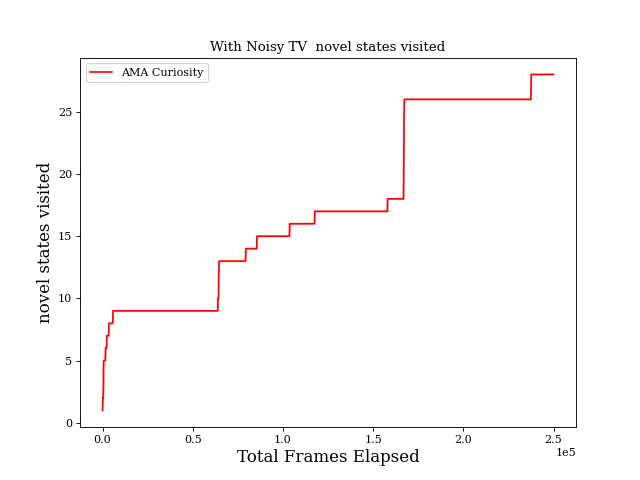
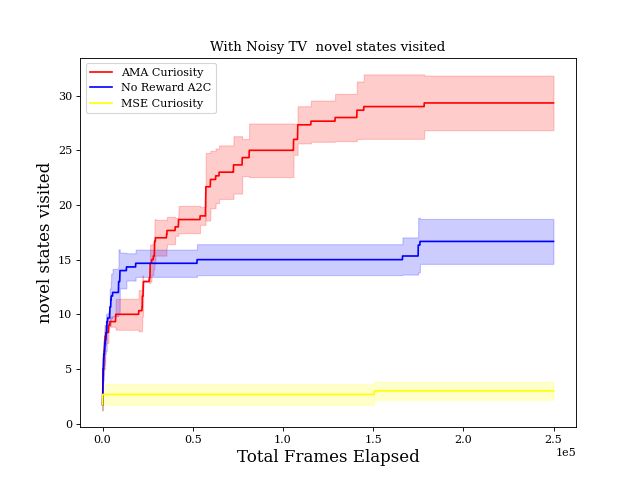
Results for multiroom (4 rooms)

diff --git a/rl-starter/src/scripts/plot.py b/rl-starter/src/scripts/plot.py
@@ -80,6 +80,15 @@ def plot(title, path_strings, quantity):
     plt.savefig(plot_title + "_" + frames + ".png")
 
 
+def ignore_empty_lists(a_list_of_lists):
+    new_list = []
+    for an_item in a_list_of_lists:
+        if len(an_item) == 0:
+            continue
+        new_list.append(an_item)
+    return new_list
+
+
 def main(args):
     quantities_to_plot = ["intrinsic_rewards", "novel_states_visited", "uncertainties"]
     all_strings = glob.glob("storage/*80*")
@@ -140,20 +149,24 @@ def main(args):
 
         path_strings_noisy_tv = [
             Curious_True_Noisy_True_Uncertain_True,
-        #    Curious_False_Noisy_True_Uncertain_False,
-        #    Curious_True_Noisy_True_Uncertain_False,
-        #    random_Noisy_True,
+            Curious_False_Noisy_True_Uncertain_False,
+            Curious_True_Noisy_True_Uncertain_False,
+            random_Noisy_True,
         ]
         path_strings_no_noisy = [
             Curious_False_Noisy_False_Uncertain_False,
             Curious_True_Noisy_False_Uncertain_True,
             Curious_True_Noisy_False_Uncertain_False,
-        #    random_Noisy_False,
+            random_Noisy_False,
         ]
+    
+        path_strings_noisy_tv = ignore_empty_lists(path_strings_noisy_tv)
+        path_strings_no_noisy = ignore_empty_lists(path_strings_no_noisy)
 
-
-        plot("With Noisy TV ", path_strings_noisy_tv, quantity)
-        plot("Without Noisy TV ", path_strings_no_noisy, quantity)
+        if len(path_strings_noisy_tv) > 0:
+            plot("With Noisy TV ", path_strings_noisy_tv, quantity)
+        if len(path_strings_no_noisy) > 0:
+            plot("Without Noisy TV ", path_strings_no_noisy, quantity)
         #plot("With Noisy TV " + args.environment + args.reward_weighting + args.normalise_rewards + args.icm_lr, path_strings_noisy_tv, quantity)
         #plot("Without Noisy TV " + args.environment + args.reward_weighting + args.normalise_rewards + args.icm_lr, path_strings_no_noisy, quantity)
 
